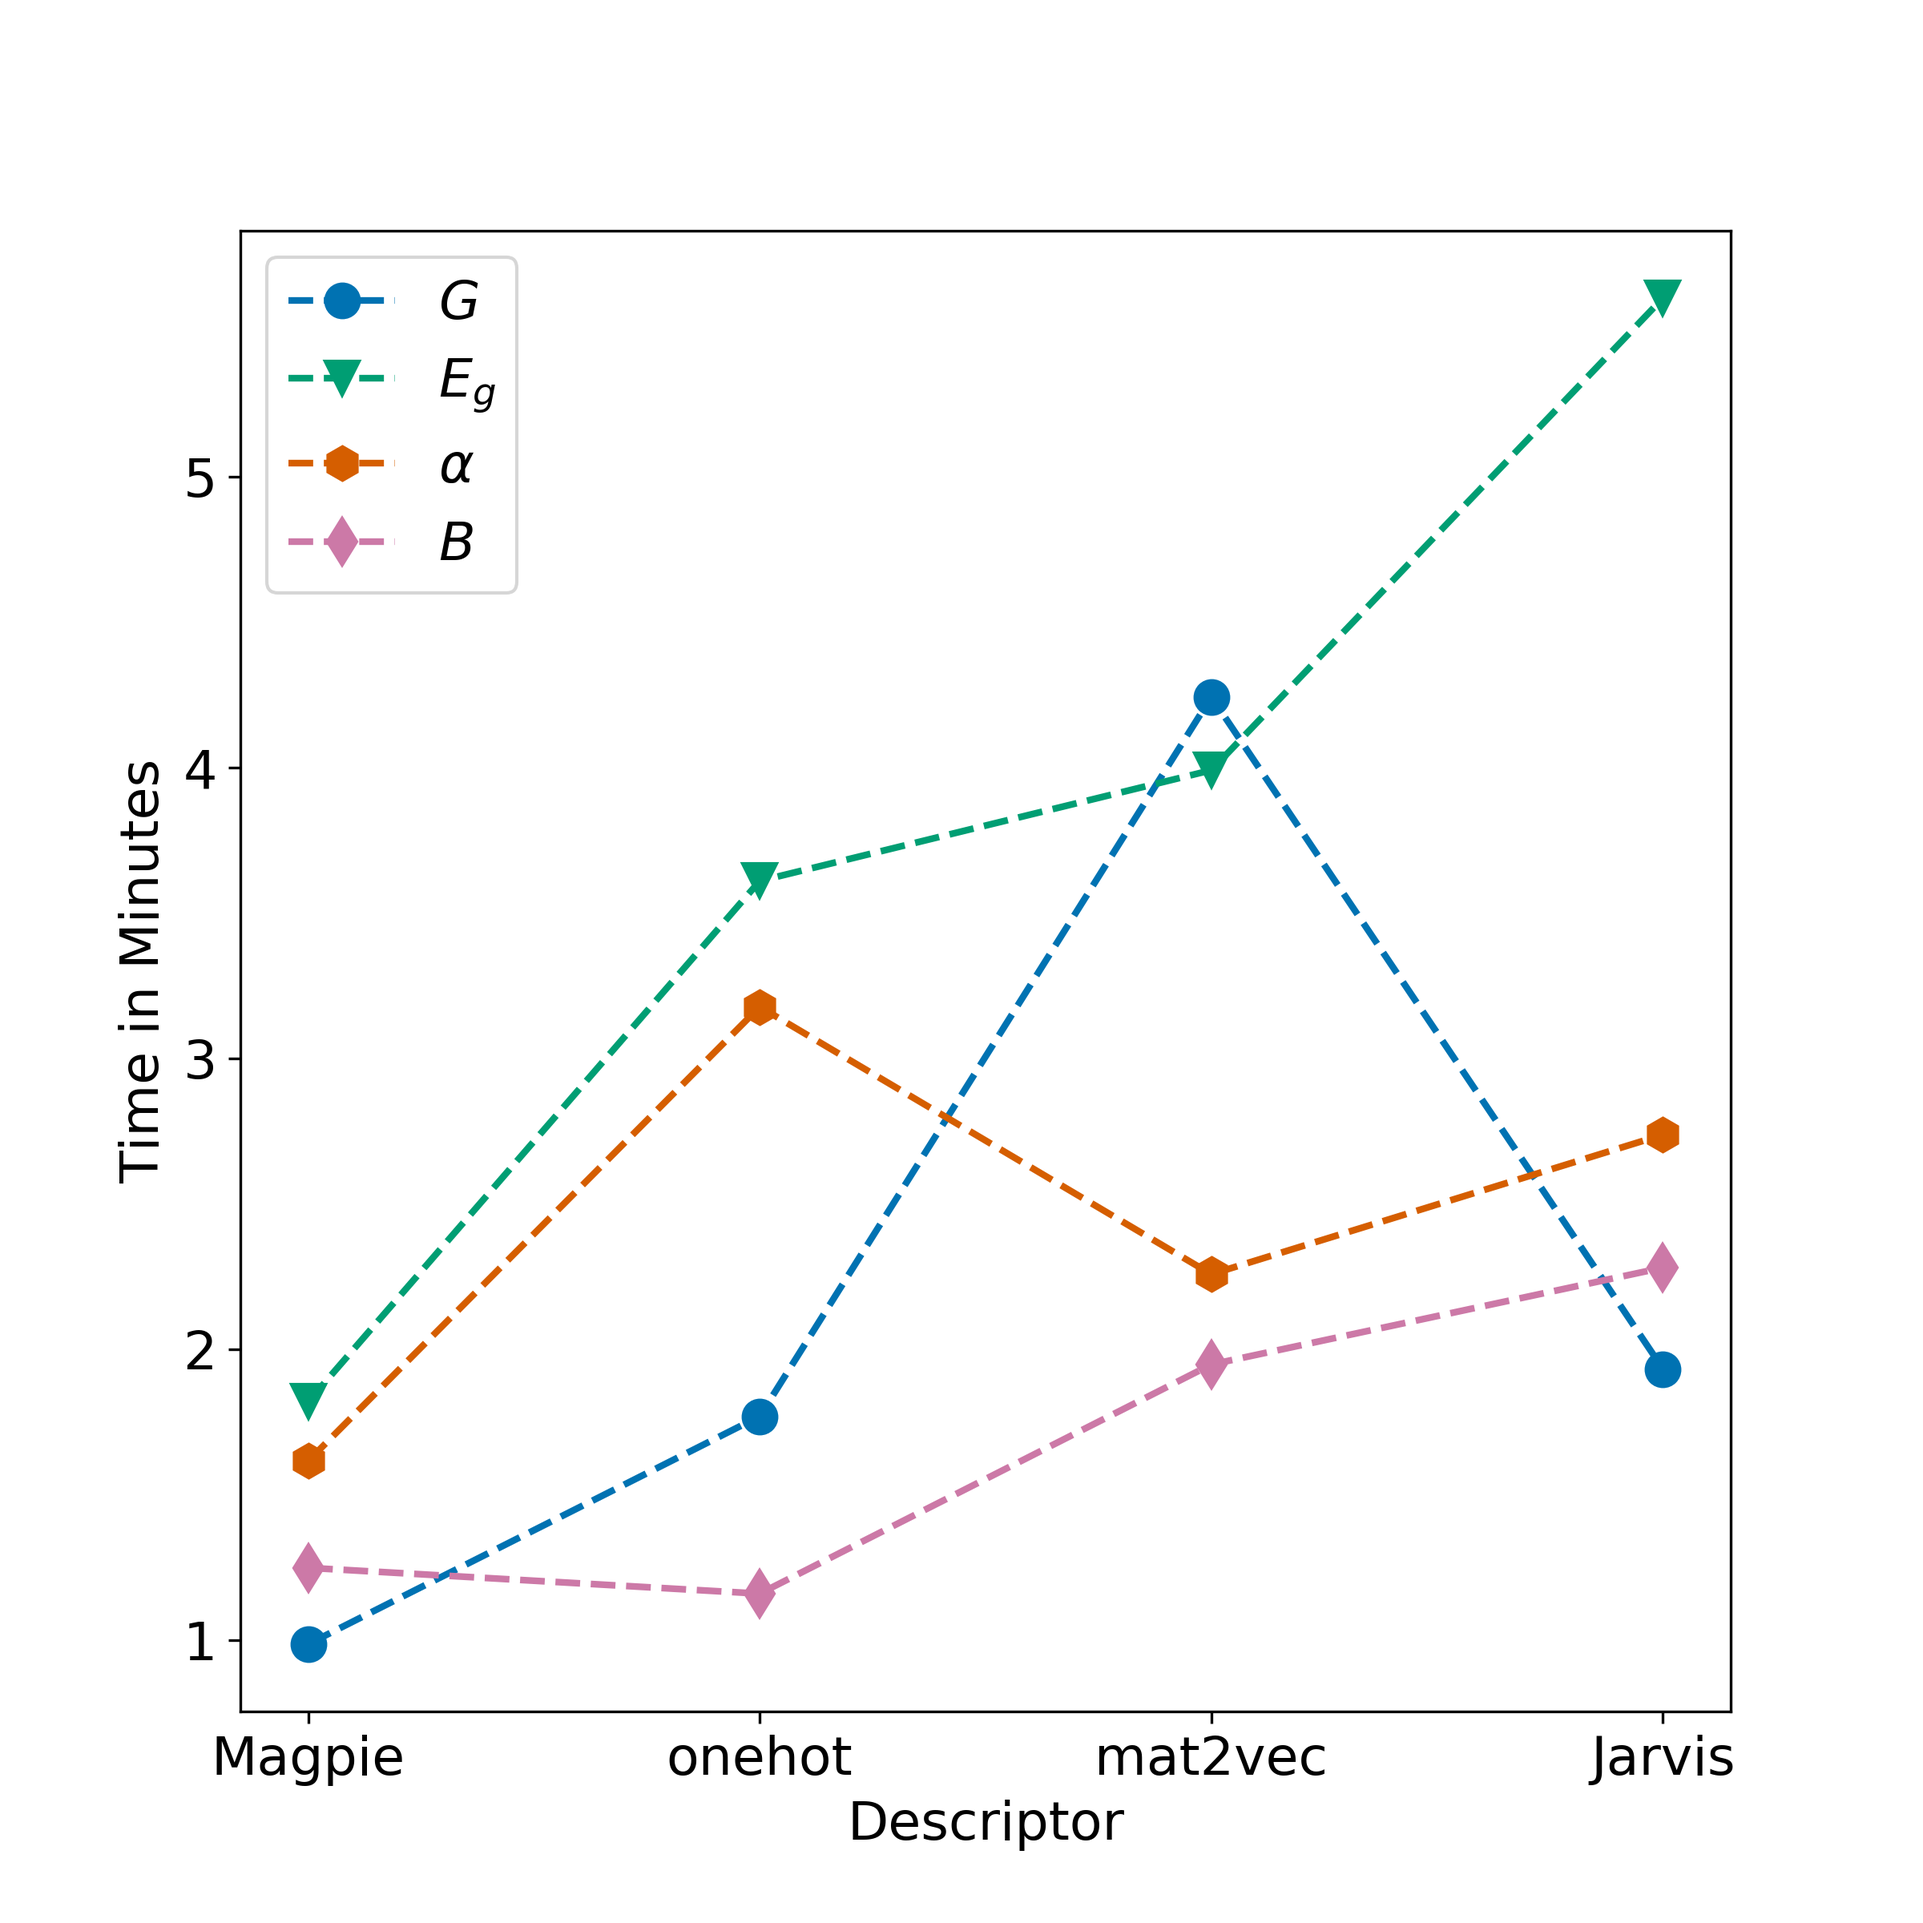
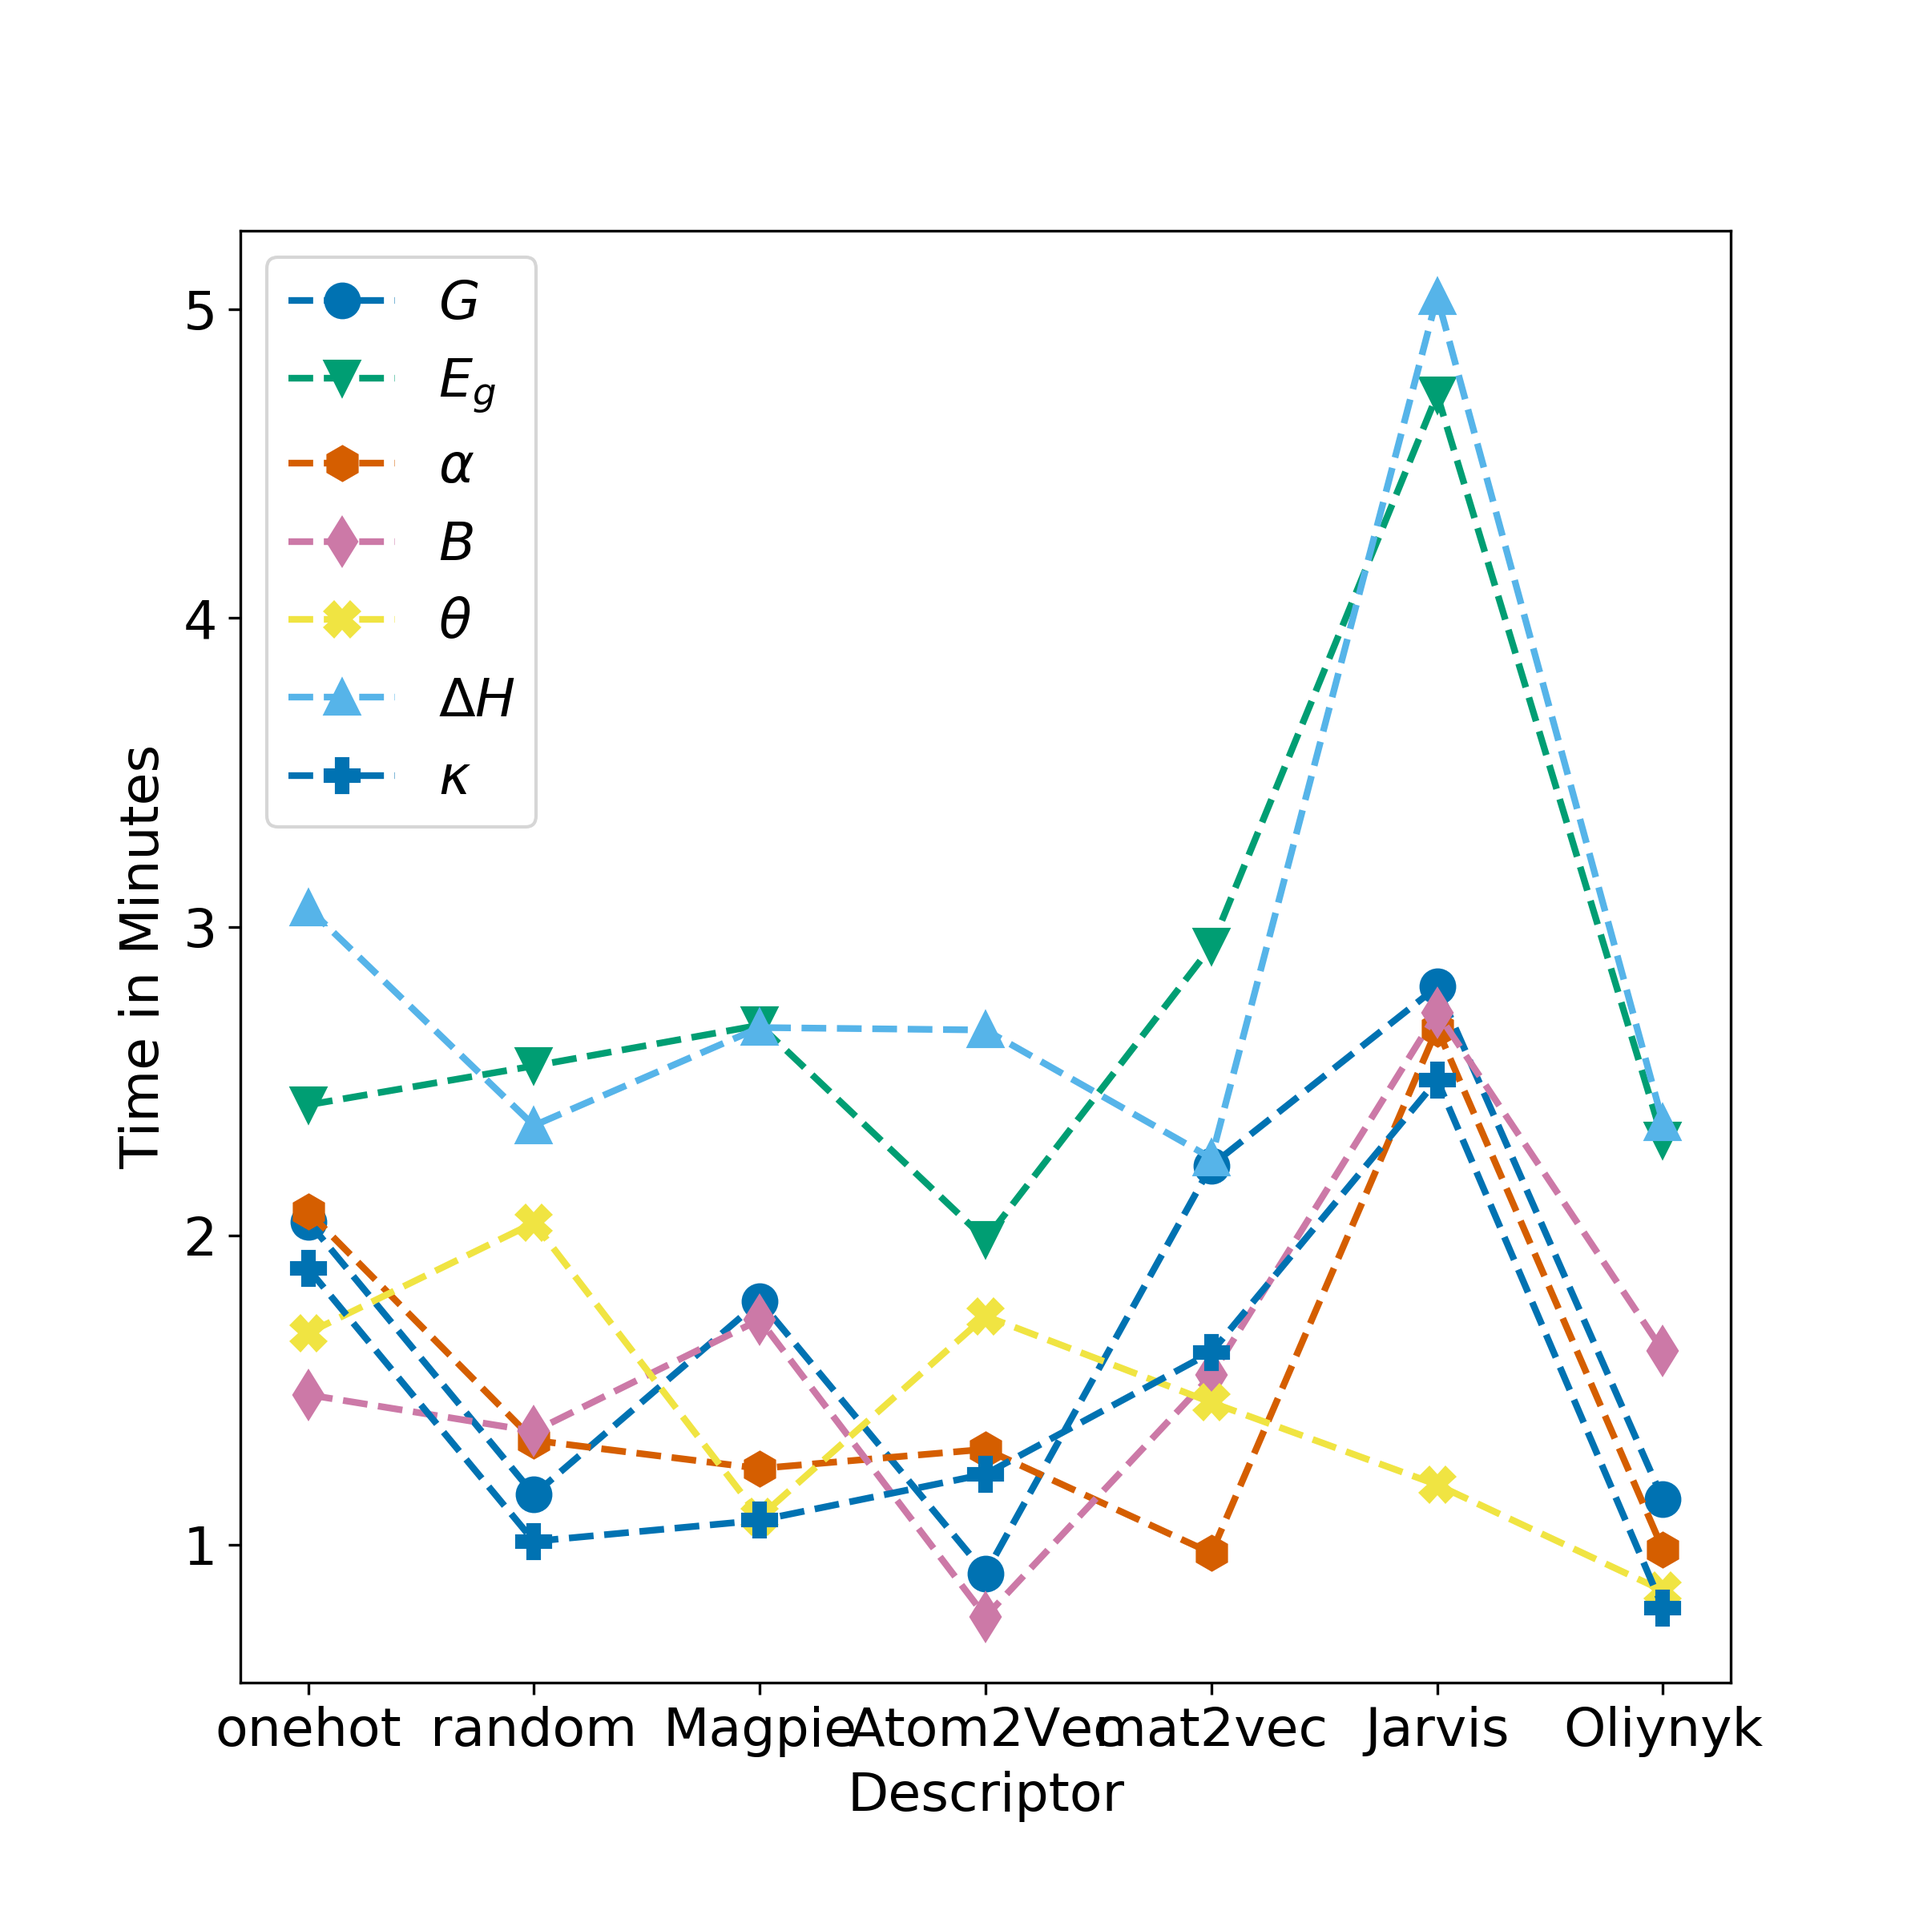
Fixed bug in recording time
The 32x32 test-time csv had duplicate data from 512x512 - but luckily the 32x32 data was still there.

diff --git a/figures/time_figures.py b/figures/time_figures.py
@@ -4,23 +4,22 @@ import matplotlib.pyplot as plt
 
 plt.style.use('seaborn-colorblind')
 
-markers = ['o', 'v', 'h', 'd', 'X', 'S', 'P']
+markers = ['o', 'v', 'h', 'd', 'X', '^', 'P']
 
-nets = [[512, 512]]
+nets = [[32, 32], [512, 512]]
 
-# elem_props = ['onehot',
-#               'random_200',
-#               'magpie',
-#               'atom2vec',
-#               'mat2vec',
-#               'jarvis_shuffled',
-#               'jarvis']
-# Only the four viable descriptors are used
-elem_props = ['magpie', 'onehot',
-              'mat2vec', 'jarvis']
+elem_props = ['onehot',
+              'random_200',
+              'magpie',
+              'atom2vec',
+              'mat2vec',
+              'jarvis',
+              'oliynyk']
 
 
-pretty_descs = {'onehot': 'onehot',
+
+pretty_descs = {'oliynyk': 'Oliynyk',
+                'onehot': 'onehot',
                 'random_200': 'random',
                 'magpie': 'Magpie',
                 'atom2vec': 'Atom2Vec',
@@ -30,11 +29,8 @@ pretty_descs = {'onehot': 'onehot',
 
 material_props = ['ael_shear_modulus_vrh', 'Egap',
                   'agl_log10_thermal_expansion_300K',
-                  'ael_bulk_modulus_vrh']
-# material_props = ['ael_shear_modulus_vrh', 'Egap',
-#                   'agl_log10_thermal_expansion_300K',
-#                   'ael_bulk_modulus_vrh', 'ael_debye_temperature',
-#                   'energy_atom', 'agl_thermal_conductivity_300K']
+                  'ael_bulk_modulus_vrh', 'ael_debye_temperature',
+                  'energy_atom', 'agl_thermal_conductivity_300K']
 
 to_symbols = {'energy_atom': '$\\Delta H$',
               'ael_shear_modulus_vrh': '$G$',
@@ -66,20 +62,27 @@ def plot_train(df, title):
 def table_inference(df, title):
     plt.rcParams.update({'font.size': 12})
     plt.figure(figsize=(27, 3))
-    # we're just using the first material property; shouldn't vary anyways
-    predictions = pd.read_csv('data/material_properties/' +
-                              material_props[0] + '/test.csv')
-    predictions_tested = predictions.values.shape[0]
     y = []
     for elem_prop in elem_props:
-        y.append(np.round(predictions_tested / df[elem_prop + ' -- ' +
-                                                  material_props[0]][0], 2))
+        avg = []
+        for mat_prop in material_props:
+            '''
+            We take the average across material properties because
+            GPU heat/efficiency could vary slightly based on time.
+            '''
+            predictions = pd.read_csv('data/material_properties/' +
+                                  mat_prop + '/test.csv')
+            predictions_tested = predictions.values.shape[0]
+            avg.append(predictions_tested / df[elem_prop + ' -- ' +
+                                                      mat_prop][0])
+        y.append(np.round(sum(avg)/len(avg), 2))
+        
     colbls = [pretty_descs[elem_prop] for elem_prop in elem_props]
     the_table = plt.table([y], colLabels=colbls,
                           rowLabels=['Predictions/Second'], loc='center')
     the_table.auto_set_font_size(False)
-    the_table.set_fontsize(24)
-    the_table.scale(.3, 3)
+    the_table.set_fontsize(12)
+    the_table.scale(.3, 5)
 
     # Removing ticks and spines enables you to get the figure only with table
     plt.tick_params(axis='x', which='both',
@@ -102,3 +105,4 @@ for units in nets:
                              units + '.csv')
     plot_train(train_times, 'training')
     table_inference(test_times, 'testing', )
+

diff --git a/full_dataset_model_weights/test_with_weights.py b/full_dataset_model_weights/test_with_weights.py
@@ -7,9 +7,6 @@ import train_nn
 archs = [[512, 512], [32, 32]]
 
 
-secs_to_train = []
-combos = []
-
 mat_props = ['ael_shear_modulus_vrh',
              'energy_atom',
              'agl_log10_thermal_expansion_300K',
@@ -21,6 +18,8 @@ mat_props = ['ael_shear_modulus_vrh',
 features = ['onehot.csv', 'random_200.csv', 'magpie.csv', 'atom2vec.csv',
             'mat2vec.csv', 'jarvis_shuffled.csv', 'jarvis.csv', 'oliynyk.csv']
 for units in archs:
+    secs_to_train = []
+    combos = []
 	for material_property in mat_props:
 	    test_df = pd.read_csv('data/material_properties/' +
 	                          material_property+'/test.csv')
